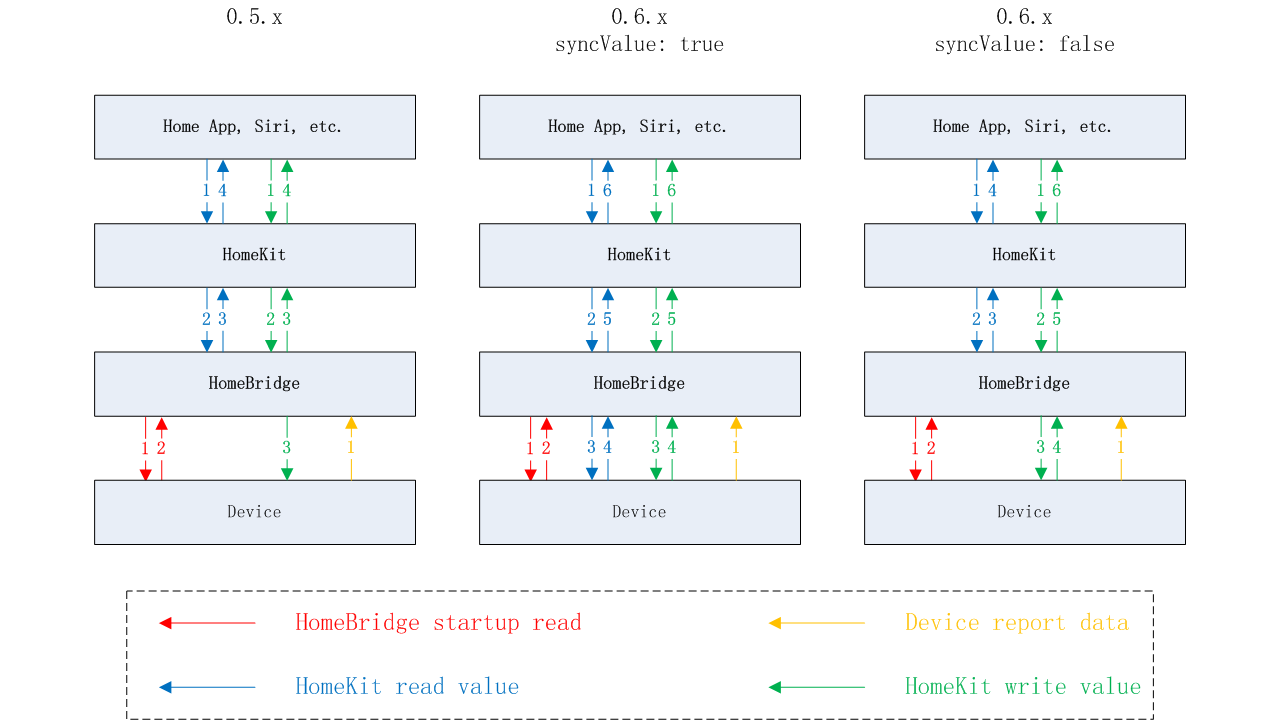
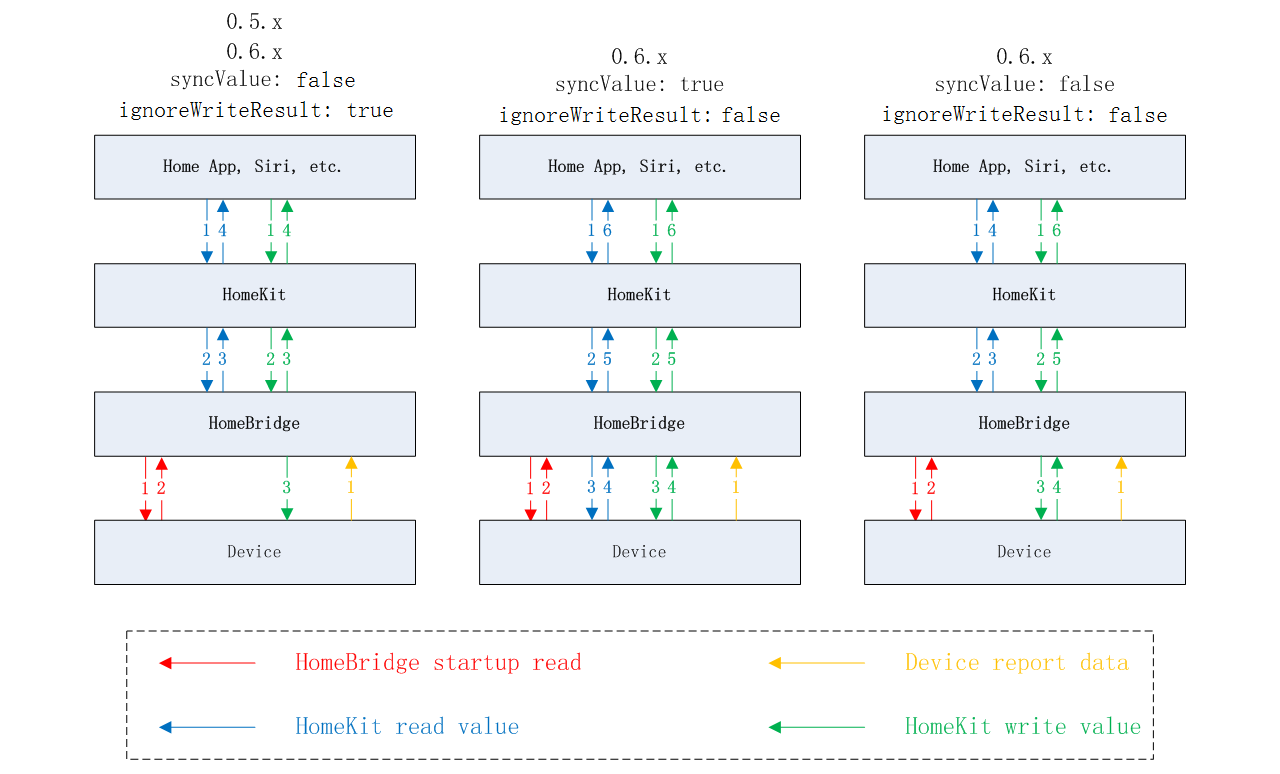
0.6.6

diff --git a/lib/ConfigUtil.js b/lib/ConfigUtil.js
@@ -15,44 +15,55 @@ class ConfigUtil {
         return this.config['gateways'][gatewaySid];
     }
     
-    getAccessoryName(deviceSid, accessoryType) {
+    getAccessoryAttribute(deviceSid, accessoryType, attributeName, defaultValue) {
         var defaultValueCfg = this.config['defaultValue'];
-        return defaultValueCfg && defaultValueCfg[deviceSid] && defaultValueCfg[deviceSid][accessoryType] && defaultValueCfg[deviceSid][accessoryType]['name'] ||
-            defaultValueCfg && defaultValueCfg[deviceSid] && defaultValueCfg[deviceSid]['Global'] && defaultValueCfg[deviceSid]['Global']['name'] ||
-            defaultValueCfg && defaultValueCfg['Global'] && defaultValueCfg['Global']['name'] ||
-            accessoryType + "_" + deviceSid.substring(deviceSid.length - 4);
+        if(null != defaultValueCfg) {
+            if(null != defaultValueCfg[deviceSid]) {
+                if(null != defaultValueCfg[deviceSid][accessoryType]) {
+                    if(null != defaultValueCfg[deviceSid][accessoryType][attributeName]) {
+                        return defaultValueCfg[deviceSid][accessoryType][attributeName];
+                    }
+                }
+                if(null != defaultValueCfg[deviceSid]['Global']){
+                    if(null != defaultValueCfg[deviceSid]['Global'][attributeName]) {
+                        return defaultValueCfg[deviceSid]['Global'][attributeName];
+                    }
+                }
+            }
+            if(null != defaultValueCfg['Global']) {
+                if(null != defaultValueCfg['Global'][attributeName]) {
+                    return defaultValueCfg['Global'][attributeName];
+                }
+            }
+            
+        }
+        
+        return defaultValue;
+    }
+    
+    getAccessoryName(deviceSid, accessoryType) {
+        var defaultValue = accessoryType + "_" + deviceSid.substring(deviceSid.length - 4);
+        return this.getAccessoryAttribute(deviceSid, accessoryType, 'name', defaultValue);
     }
 
     getAccessoryDisable(deviceSid, accessoryType) {
-        var defaultValueCfg = this.config['defaultValue'];
-        return defaultValueCfg && defaultValueCfg[deviceSid] && defaultValueCfg[deviceSid][accessoryType] && defaultValueCfg[deviceSid][accessoryType]['disable'] ||
-            defaultValueCfg && defaultValueCfg[deviceSid] && defaultValueCfg[deviceSid]['Global'] && defaultValueCfg[deviceSid]['Global']['disable'] ||
-            defaultValueCfg && defaultValueCfg['Global'] && defaultValueCfg['Global']['disable'] ||
-            false;
+        return this.getAccessoryAttribute(deviceSid, accessoryType, 'disable', false);
     }
     
     getAccessoryServiceType(deviceSid, accessoryType) {
-        var defaultValueCfg = this.config['defaultValue'];
-        return defaultValueCfg && defaultValueCfg[deviceSid] && defaultValueCfg[deviceSid][accessoryType] && defaultValueCfg[deviceSid][accessoryType]['serviceType'] ||
-            defaultValueCfg && defaultValueCfg[deviceSid] && defaultValueCfg[deviceSid]['Global'] && defaultValueCfg[deviceSid]['Global']['serviceType'] ||
-            defaultValueCfg && defaultValueCfg['Global'] && defaultValueCfg['Global']['serviceType'] ||
-            null;
+        return this.getAccessoryAttribute(deviceSid, accessoryType, 'serviceType', null);
     }
     
     getAccessorySyncValue(deviceSid, accessoryType) {
-        var defaultValueCfg = this.config['defaultValue'];
-        return defaultValueCfg && defaultValueCfg[deviceSid] && defaultValueCfg[deviceSid][accessoryType] && defaultValueCfg[deviceSid][accessoryType]['syncValue'] ||
-            defaultValueCfg && defaultValueCfg[deviceSid] && defaultValueCfg[deviceSid]['Global'] && defaultValueCfg[deviceSid]['Global']['syncValue'] ||
-            defaultValueCfg && defaultValueCfg['Global'] && defaultValueCfg['Global']['syncValue'] ||
-            false;
+        return this.getAccessoryAttribute(deviceSid, accessoryType, 'syncValue', false);
     }
     
     getAccessoryNoResponse(deviceSid, accessoryType) {
-        var defaultValueCfg = this.config['defaultValue'];
-        return defaultValueCfg && defaultValueCfg[deviceSid] && defaultValueCfg[deviceSid][accessoryType] && defaultValueCfg[deviceSid][accessoryType]['disableNoResponse'] ||
-            defaultValueCfg && defaultValueCfg[deviceSid] && defaultValueCfg[deviceSid]['Global'] && defaultValueCfg[deviceSid]['Global']['disableNoResponse'] ||
-            defaultValueCfg && defaultValueCfg['Global'] && defaultValueCfg['Global']['disableNoResponse'] ||
-            false;
+        return this.getAccessoryAttribute(deviceSid, accessoryType, 'disableNoResponse', false);
+    }
+    
+    getAccessoryIgnoreWriteResult(deviceSid, accessoryType) {
+        return this.getAccessoryAttribute(deviceSid, accessoryType, 'ignoreWriteResult', false);
     }
 }
 

diff --git a/parser/GatewayParser.js b/parser/GatewayParser.js
@@ -53,7 +53,7 @@ class GatewayLightSensorParser extends AccessoryParser {
             var service = accessory.getService(that.Service.LightSensor);
             
             var currentAmbientLightLevelCharacteristic = service.getCharacteristic(that.Characteristic.CurrentAmbientLightLevel);
-            var value = that.getCurrentAmbientLightLevelCharacteristicValue(jsonObj, null);
+            var value = that.getCurrentAmbientLightLevelCharacteristicValue(jsonObj, 0.0001);
             if(value) {
                 currentAmbientLightLevelCharacteristic.updateValue(value);
             }
@@ -63,7 +63,7 @@ class GatewayLightSensorParser extends AccessoryParser {
                     currentAmbientLightLevelCharacteristic.on("get", function(callback) {
                         var command = '{"cmd":"read", "sid":"' + deviceSid + '"}';
                         that.platform.sendReadCommand(deviceSid, command).then(result => {
-                            var value = that.getCurrentAmbientLightLevelCharacteristicValue(result, null);
+                            var value = that.getCurrentAmbientLightLevelCharacteristicValue(result, 0.0001);
                             if(value) {
                                 callback(null, value);
                             } else {
@@ -390,12 +390,17 @@ class GatewayLightbulbParser extends AccessoryParser {
             }
             
             var command = '{"cmd":"write","model":"gateway","sid":"' + deviceSid + '","data":"{\\"rgb\\":' + prepValue + ', \\"key\\": \\"${key}\\"}"}';
-            that.platform.sendWriteCommand(deviceSid, command).then(result => {
-                resolve(result);
-            }).catch(function(err) {
-                that.platform.log.error(err);
-                reject(err);
-            });
+            if(that.platform.ConfigUtil.getAccessoryIgnoreWriteResult(deviceSid, that.accessoryType)) {
+                that.platform.sendWriteCommandWithoutFeedback(deviceSid, command);
+                resolve(null);
+            } else {
+                that.platform.sendWriteCommand(deviceSid, command).then(result => {
+                    resolve(result);
+                }).catch(function(err) {
+                    that.platform.log.error(err);
+                    reject(err);
+                });
+            }
         })
     }
 
@@ -536,17 +541,27 @@ class GatewaySwitchJoinPermissionParser extends AccessoryParser {
                 onCharacteristic.on("set", function(value, callback) {
                     clearTimeout(that.joinPermissionTimeout[deviceSid]);
                     var command = '{"cmd":"write","model":"gateway","sid":"' + deviceSid + '","data":"{\\"join_permission\\":\\"' + (value ? 'yes' : 'no') + '\\", \\"key\\": \\"${key}\\"}"}';
-                    that.platform.sendWriteCommand(deviceSid, command).then(result => {
+                    if(that.platform.ConfigUtil.getAccessoryIgnoreWriteResult(deviceSid, that.accessoryType)) {
+                        that.platform.sendWriteCommandWithoutFeedback(deviceSid, command);
                         that.callback2HB(deviceSid, this, callback, null);
                         if(value) {
                             that.joinPermissionTimeout[deviceSid] = setTimeout(() => {
                                 onCharacteristic.updateValue(false);
                             }, 30 * 1000);
                         }
-                    }).catch(function(err) {
-                        that.platform.log.error(err);
-                        that.callback2HB(deviceSid, this, callback, err);
-                    });
+                    } else {
+                        that.platform.sendWriteCommand(deviceSid, command).then(result => {
+                            that.callback2HB(deviceSid, this, callback, null);
+                            if(value) {
+                                that.joinPermissionTimeout[deviceSid] = setTimeout(() => {
+                                    onCharacteristic.updateValue(false);
+                                }, 30 * 1000);
+                            }
+                        }).catch(function(err) {
+                            that.platform.log.error(err);
+                            that.callback2HB(deviceSid, this, callback, err);
+                        });
+                    }
                 });
             }
         }

diff --git a/parser/SwitchVirtualBasePressParser.js b/parser/SwitchVirtualBasePressParser.js
@@ -38,16 +38,25 @@ class SwitchVirtualBasePressParser extends AccessoryParser {
             if(onCharacteristic.listeners('set').length == 0) {
                 onCharacteristic.on("set", function(value, callback) {
                     var command = that.getWriteCommand(deviceSid, value);
-                    that.platform.sendWriteCommand(deviceSid, command).then(result => {
+                    if(that.platform.ConfigUtil.getAccessoryIgnoreWriteResult(deviceSid, that.accessoryType)) {
+                        that.platform.sendWriteCommandWithoutFeedback(deviceSid, command);
                         that.callback2HB(deviceSid, this, callback, null);
                         that.doSomething(jsonObj);
                         setTimeout(() => {
                             onCharacteristic.updateValue(false);
                         }, 10);
-                    }).catch(function(err) {
-                        that.platform.log.error(err);
-                        that.callback2HB(deviceSid, this, callback, err);
-                    });
+                    } else {
+                        that.platform.sendWriteCommand(deviceSid, command).then(result => {
+                            that.callback2HB(deviceSid, this, callback, null);
+                            that.doSomething(jsonObj);
+                            setTimeout(() => {
+                                onCharacteristic.updateValue(false);
+                            }, 10);
+                        }).catch(function(err) {
+                            that.platform.log.error(err);
+                            that.callback2HB(deviceSid, this, callback, err);
+                        });
+                    }
                 });
             }
             

diff --git a/index.js b/index.js
@@ -298,7 +298,7 @@ MiAqaraPlatform.prototype.parseMessage = function(msg, rinfo){
             that.log.debug("[Revc]" + msg);
             if(jsonObj['data'] && jsonObj['data'].indexOf('error') > -1) {
                 p.reject(new Error(JSON.parse(jsonObj['data'])['error']));
-            } else if(jsonObj['data'] && jsonObj['data'].indexOf('unknown') > -1) {
+            } else if(jsonObj['data'] && jsonObj['data'].indexOf('unknown') > -1 && jsonObj['data'].indexOf('on') == -1 && jsonObj['data'].indexOf('off') == -1) {
                 p.reject(new Error(jsonObj['data']));
             } else {
                 p.resolve(jsonObj);
@@ -469,6 +469,21 @@ MiAqaraPlatform.prototype.sendWriteCommand = function(deviceSid, command, option
             reject(err);
         });
     })
+}
+
+MiAqaraPlatform.prototype.sendWriteCommandWithoutFeedback = function(deviceSid, command, options) {
+    var that = this;
+    var device = that.DeviceUtil.getBySid(deviceSid);
+    var gateway = that.GatewayUtil.getBySid(device.gatewaySid);
+    
+    var cipher = crypto.createCipheriv('aes-128-cbc', that.ConfigUtil.getGatewayPasswordByGatewaySid(gateway['sid']), iv);
+    var gatewayToken = gateway['token'];
+    var key = cipher.update(gatewayToken, "ascii", "hex");
+    cipher.final('hex'); // Useless data, don't know why yet.
+    
+    command = command.replace('${key}', key);
+    that.log.debug("[Send]" + command);
+    serverSocket.send(command, 0, command.length, gateway.port, gateway.ip, err => err && reject(err));
 }
 
 MiAqaraPlatform.prototype.registerPlatformAccessories = function(accessories) {

diff --git a/parser/ElectricCurtainParser.js b/parser/ElectricCurtainParser.js
@@ -85,13 +85,17 @@ class ElectricCurtainWindowCoveringParser extends AccessoryParser {
             if (targetPositionCharacteristic.listeners('set').length == 0) {
                 targetPositionCharacteristic.on("set", function(value, callback) {
                     var command = '{"cmd":"write","model":"curtain","sid":"' + deviceSid + '","data":"{\\"curtain_level\\":\\"' + value + '\\", \\"key\\": \\"${key}\\"}"}';
-                    console.info(command);
-                    that.platform.sendWriteCommand(deviceSid, command).then(result => {
+                    if(that.platform.ConfigUtil.getAccessoryIgnoreWriteResult(deviceSid, that.accessoryType)) {
+                        that.platform.sendWriteCommandWithoutFeedback(deviceSid, command);
                         that.callback2HB(deviceSid, this, callback, null);
-                    }).catch(function(err) {
-                        that.platform.log.error(err);
-                        that.callback2HB(deviceSid, this, callback, err);
-                    });
+                    } else {
+                        that.platform.sendWriteCommand(deviceSid, command).then(result => {
+                            that.callback2HB(deviceSid, this, callback, null);
+                        }).catch(function(err) {
+                            that.platform.log.error(err);
+                            that.callback2HB(deviceSid, this, callback, err);
+                        });
+                    }
                 });
             }
         }

diff --git a/parser/SingleSwitchParser.js b/parser/SingleSwitchParser.js
@@ -95,12 +95,17 @@ class SingleSwitchSwitchParser extends AccessoryParser {
             if(onCharacteristic.listeners('set').length == 0) {
                 onCharacteristic.on("set", function(value, callback) {
                     var command = '{"cmd":"write","model":"ctrl_neutral1","sid":"' + deviceSid + '","data":"{\\"channel_0\\":\\"' + (value ? 'on' : 'off') + '\\", \\"key\\": \\"${key}\\"}"}';
-                    that.platform.sendWriteCommand(deviceSid, command).then(result => {
+                    if(that.platform.ConfigUtil.getAccessoryIgnoreWriteResult(deviceSid, that.accessoryType)) {
+                        that.platform.sendWriteCommandWithoutFeedback(deviceSid, command);
                         that.callback2HB(deviceSid, this, callback, null);
-                    }).catch(function(err) {
-                        that.platform.log.error(err);
-                        that.callback2HB(deviceSid, this, callback, err);
-                    });
+                    } else {
+                        that.platform.sendWriteCommand(deviceSid, command).then(result => {
+                            that.callback2HB(deviceSid, this, callback, null);
+                        }).catch(function(err) {
+                            that.platform.log.error(err);
+                            that.callback2HB(deviceSid, this, callback, err);
+                        });
+                    }
                 });
             }
         }

diff --git a/parser/SingleSwitchLNParser.js b/parser/SingleSwitchLNParser.js
@@ -95,12 +95,17 @@ class SingleSwitchLNSwitchParser extends AccessoryParser {
             if(onCharacteristic.listeners('set').length == 0) {
                 onCharacteristic.on("set", function(value, callback) {
                     var command = '{"cmd":"write","model":"ctrl_ln1","sid":"' + deviceSid + '","data":"{\\"channel_0\\":\\"' + (value ? 'on' : 'off') + '\\", \\"key\\": \\"${key}\\"}"}';
-                    that.platform.sendWriteCommand(deviceSid, command).then(result => {
+                    if(that.platform.ConfigUtil.getAccessoryIgnoreWriteResult(deviceSid, that.accessoryType)) {
+                        that.platform.sendWriteCommandWithoutFeedback(deviceSid, command);
                         that.callback2HB(deviceSid, this, callback, null);
-                    }).catch(function(err) {
-                        that.platform.log.error(err);
-                        that.callback2HB(deviceSid, this, callback, err);
-                    });
+                    } else {
+                        that.platform.sendWriteCommand(deviceSid, command).then(result => {
+                            that.callback2HB(deviceSid, this, callback, null);
+                        }).catch(function(err) {
+                            that.platform.log.error(err);
+                            that.callback2HB(deviceSid, this, callback, err);
+                        });
+                    }
                 });
             }
         }

diff --git a/parser/PlugBase86Parser.js b/parser/PlugBase86Parser.js
@@ -81,12 +81,17 @@ class PlugBase86OutletParser extends AccessoryParser {
             if (onCharacteristic.listeners('set').length == 0) {
                 onCharacteristic.on("set", function(value, callback) {
                     var command = '{"cmd":"write","model":"86plug","sid":"' + deviceSid + '","data":"{\\"status\\":\\"' + (value ? 'on' : 'off') + '\\", \\"key\\": \\"${key}\\"}"}';
-                    that.platform.sendWriteCommand(deviceSid, command).then(result => {
+                    if(that.platform.ConfigUtil.getAccessoryIgnoreWriteResult(deviceSid, that.accessoryType)) {
+                        that.platform.sendWriteCommandWithoutFeedback(deviceSid, command);
                         that.callback2HB(deviceSid, this, callback, null);
-                    }).catch(function(err) {
-                        that.platform.log.error(err);
-                        that.callback2HB(deviceSid, this, callback, err);
-                    });
+                    } else {
+                        that.platform.sendWriteCommand(deviceSid, command).then(result => {
+                            that.callback2HB(deviceSid, this, callback, null);
+                        }).catch(function(err) {
+                            that.platform.log.error(err);
+                            that.callback2HB(deviceSid, this, callback, err);
+                        });
+                    }
                 });
             }
         }

diff --git a/parser/PlugBaseParser.js b/parser/PlugBaseParser.js
@@ -81,12 +81,17 @@ class PlugBaseOutletParser extends AccessoryParser {
             if (onCharacteristic.listeners('set').length == 0) {
                 onCharacteristic.on("set", function(value, callback) {
                     var command = '{"cmd":"write","model":"plug","sid":"' + deviceSid + '","data":"{\\"status\\":\\"' + (value ? 'on' : 'off') + '\\", \\"key\\": \\"${key}\\"}"}';
-                    that.platform.sendWriteCommand(deviceSid, command).then(result => {
+                    if(that.platform.ConfigUtil.getAccessoryIgnoreWriteResult(deviceSid, that.accessoryType)) {
+                        that.platform.sendWriteCommandWithoutFeedback(deviceSid, command);
                         that.callback2HB(deviceSid, this, callback, null);
-                    }).catch(function(err) {
-                        that.platform.log.error(err);
-                        that.callback2HB(deviceSid, this, callback, err);
-                    });
+                    } else {
+                        that.platform.sendWriteCommand(deviceSid, command).then(result => {
+                            that.callback2HB(deviceSid, this, callback, null);
+                        }).catch(function(err) {
+                            that.platform.log.error(err);
+                            that.callback2HB(deviceSid, this, callback, err);
+                        });
+                    }
                 });
             }
         }

diff --git a/parser/DuplexSwitchLNParser.js b/parser/DuplexSwitchLNParser.js
@@ -96,12 +96,17 @@ class DuplexSwitchLNSwitchBaseParser extends AccessoryParser {
             if(onCharacteristic.listeners('set').length == 0) {
                 onCharacteristic.on("set", function(value, callback) {
                     var command = that.getWriteCommand(deviceSid, value);
-                    that.platform.sendWriteCommand(deviceSid, command).then(result => {
+                    if(that.platform.ConfigUtil.getAccessoryIgnoreWriteResult(deviceSid, that.accessoryType)) {
+                        that.platform.sendWriteCommandWithoutFeedback(deviceSid, command);
                         that.callback2HB(deviceSid, this, callback, null);
-                    }).catch(function(err) {
-                        that.platform.log.error(err);
-                        that.callback2HB(deviceSid, this, callback, err);
-                    });
+                    } else {
+                        that.platform.sendWriteCommand(deviceSid, command).then(result => {
+                            that.callback2HB(deviceSid, this, callback, null);
+                        }).catch(function(err) {
+                            that.platform.log.error(err);
+                            that.callback2HB(deviceSid, this, callback, err);
+                        });
+                    }
                 });
             }
         }

diff --git a/parser/DuplexSwitchParser.js b/parser/DuplexSwitchParser.js
@@ -96,12 +96,17 @@ class DuplexSwitchSwitchBaseParser extends AccessoryParser {
             if(onCharacteristic.listeners('set').length == 0) {
                 onCharacteristic.on("set", function(value, callback) {
                     var command = that.getWriteCommand(deviceSid, value);
-                    that.platform.sendWriteCommand(deviceSid, command).then(result => {
+                    if(that.platform.ConfigUtil.getAccessoryIgnoreWriteResult(deviceSid, that.accessoryType)) {
+                        that.platform.sendWriteCommandWithoutFeedback(deviceSid, command);
                         that.callback2HB(deviceSid, this, callback, null);
-                    }).catch(function(err) {
-                        that.platform.log.error(err);
-                        that.callback2HB(deviceSid, this, callback, err);
-                    });
+                    } else {
+                        that.platform.sendWriteCommand(deviceSid, command).then(result => {
+                            that.callback2HB(deviceSid, this, callback, null);
+                        }).catch(function(err) {
+                            that.platform.log.error(err);
+                            that.callback2HB(deviceSid, this, callback, err);
+                        });
+                    }
                 });
             }
         }

diff --git a/parser/MotionSensor2Parser.js b/parser/MotionSensor2Parser.js
@@ -133,7 +133,7 @@ class MotionSensor2LightSensorParser extends AccessoryParser {
         if(accessory) {
             var service = accessory.getService(that.Service.LightSensor);
             var currentAmbientLightLevelCharacteristic = service.getCharacteristic(that.Characteristic.CurrentAmbientLightLevel);
-            var value = that.getCurrentAmbientLightLevelCharacteristicValue(jsonObj, null);
+            var value = that.getCurrentAmbientLightLevelCharacteristicValue(jsonObj, 0.0001);
             if(value) {
                 currentAmbientLightLevelCharacteristic.updateValue(value);
             }
@@ -143,7 +143,7 @@ class MotionSensor2LightSensorParser extends AccessoryParser {
                     currentAmbientLightLevelCharacteristic.on("get", function(callback) {
                         var command = '{"cmd":"read", "sid":"' + deviceSid + '"}';
                         that.platform.sendReadCommand(deviceSid, command).then(result => {
-                            var value = that.getCurrentAmbientLightLevelCharacteristicValue(result, null);
+                            var value = that.getCurrentAmbientLightLevelCharacteristicValue(result, 0.0001);
                             if(value) {
                                 callback(null, value);
                             } else {
